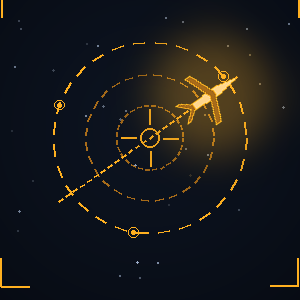
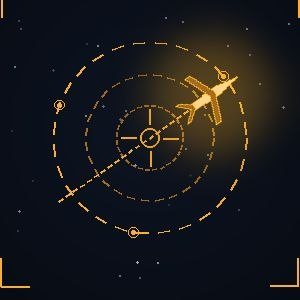
feat: replace all store artwork with new airplane imagery
- App icons (Assets/*) regenerated from new 300px icon master
- Box art 1080/2160 from dedicated 1080px and 1280px masters
- Posters 720/1440 from dedicated 9:16 portrait artwork
- Store tiles 71/150/300 from dedicated icon variants
- make_assets.py supports per-family masters (icon/box/poster/tile)

diff --git a/scripts/make_assets.py b/scripts/make_assets.py
@@ -2,15 +2,23 @@
 make_assets.py
 ==============
 Generates and repairs PNG assets required by Package.appxmanifest for the
-HoloLens 1 UWP app, using a master artwork image as the source.
+HoloLens 1 UWP app, using dedicated master artwork images as sources.
 
-The master image (`scripts/icon_master.png`) is the single source of truth
-for the app icon artwork. Every asset (44px through 1240px) is derived from
-it with LANCZOS resampling:
+Each asset family has its own master (single source of truth):
 
-- Square targets: direct resize of the master.
-- Wide targets (Wide310x150 / SplashScreen): center crop of the master to
-  the target aspect ratio (2.07:1) so the subject stays framed, then resize.
+- ``scripts/icon_master.png`` — square app-icon artwork (300x300). Every
+  square app icon (44px through 300px) and the wide/splash targets are
+  derived from it with LANCZOS resampling:
+  - Square targets: direct resize of the master.
+  - Wide targets (Wide310x150 / SplashScreen): center crop of the master to
+    the target aspect ratio (2.07:1) so the subject stays framed, then resize.
+- ``scripts/box_art_master_1080.jpg`` — square Microsoft Store box art
+  (1080x1080); the 2160x2160 box is upscaled from ``box_art_master_1280.jpg``.
+- ``scripts/poster_master_720.jpg`` / ``poster_master_853.jpg`` — portrait
+  9:16 poster artwork (720x1080 / 853x1280); the 1440x2160 poster is a
+  center-crop-to-9:16 then upscale of the 853 master.
+- ``scripts/icon_master_150.jpg`` / ``icon_master_100.jpg`` — smaller icon
+  artwork variants for the 150px / 71px Store tiles.
 
 Usage:
     python scripts/make_assets.py
@@ -19,7 +27,7 @@ Behavior:
 - Rewrites assets whose dimensions are wrong.
 - Generates both scale-200 names and common unscaled aliases.
 - Also regenerates the Microsoft Store listing images (StoreListing/) from
-  the same master.
+  the same masters.
 """
 
 import os
@@ -32,6 +40,12 @@ ASSETS_DIR = os.path.join(REPO_DIR, "Assets")
 STORE_DIR = os.path.join(REPO_DIR, "StoreListing")
 
 MASTER_PATH = os.path.join(SCRIPT_DIR, "icon_master.png")
+BOX_MASTER_1080 = os.path.join(SCRIPT_DIR, "box_art_master_1080.jpg")
+BOX_MASTER_1280 = os.path.join(SCRIPT_DIR, "box_art_master_1280.jpg")
+POSTER_MASTER_720 = os.path.join(SCRIPT_DIR, "poster_master_720.jpg")
+POSTER_MASTER_853 = os.path.join(SCRIPT_DIR, "poster_master_853.jpg")
+ICON_MASTER_150 = os.path.join(SCRIPT_DIR, "icon_master_150.jpg")
+ICON_MASTER_100 = os.path.join(SCRIPT_DIR, "icon_master_100.jpg")
 
 # ---------------------------------------------------------------------------
 # Helpers
@@ -50,6 +64,7 @@ def crop_wide(master, target_w, target_h):
     crop_h = min(crop_h, mh)
     # Bias the crop window toward the subject band (vertical center).
     top = max(0, (mh - crop_h) // 2)
+    # Shift slightly up if the crop would cut the top of a tall subject.
     top = max(0, top - int(mh * 0.02))
     box = (0, top, mw, top + crop_h)
     return master.crop(box)
@@ -76,61 +91,101 @@ WIDE_TARGETS = [
     ("SplashScreen.scale-200.png", 1240, 600),
 ]
 
-# Microsoft Store listing images (square boxes/tiles + 9:16 posters).
-STORE_TARGETS = [
+# Microsoft Store listing images — square boxes from the box-art masters.
+BOX_TARGETS = [
     ("1x1_Box_1080x1080.png", 1080, 1080),
     ("1x1_Box_2160x2160.png", 2160, 2160),
-    ("1x1_Tile_71x71.png", 71, 71),
-    ("1x1_Tile_150x150.png", 150, 150),
-    ("1x1_Tile_300x300.png", 300, 300),
+]
+
+# Microsoft Store listing images — 9:16 posters from the poster masters.
+POSTER_TARGETS = [
     ("9x16_Poster_720x1080.png", 720, 1080),
     ("9x16_Poster_1440x2160.png", 1440, 2160),
 ]
 
+# Microsoft Store listing images — small square tiles from the icon masters.
+TILE_TARGETS = [
+    ("1x1_Tile_71x71.png", 71, 71),
+    ("1x1_Tile_150x150.png", 150, 150),
+    ("1x1_Tile_300x300.png", 300, 300),
+]
+
 
 def main():
-    if not os.path.exists(MASTER_PATH):
-        raise FileNotFoundError(
-            f"Master artwork not found: {MASTER_PATH}\n"
-            "Place the app icon artwork at scripts/icon_master.png and re-run."
-        )
+    required = {
+        "MASTER_PATH": MASTER_PATH,
+        "BOX_MASTER_1080": BOX_MASTER_1080,
+        "BOX_MASTER_1280": BOX_MASTER_1280,
+        "POSTER_MASTER_720": POSTER_MASTER_720,
+        "POSTER_MASTER_853": POSTER_MASTER_853,
+    }
+    for name, path in required.items():
+        if not os.path.exists(path):
+            raise FileNotFoundError(f"Master artwork not found: {path} ({name})")
 
     master = Image.open(MASTER_PATH).convert("RGB")
-    print(f"Master artwork: {MASTER_PATH} ({master.size[0]}x{master.size[1]})")
+    box_1080 = Image.open(BOX_MASTER_1080).convert("RGB")
+    box_1280 = Image.open(BOX_MASTER_1280).convert("RGB")
+    poster_720 = Image.open(POSTER_MASTER_720).convert("RGB")
+    poster_853 = Image.open(POSTER_MASTER_853).convert("RGB")
+    icon_150 = Image.open(ICON_MASTER_150).convert("RGB") if os.path.exists(ICON_MASTER_150) else master
+    icon_100 = Image.open(ICON_MASTER_100).convert("RGB") if os.path.exists(ICON_MASTER_100) else master
+
+    print(f"App-icon master:      {MASTER_PATH} ({master.size[0]}x{master.size[1]})")
+    print(f"Box art master 1080:  {BOX_MASTER_1080} ({box_1080.size[0]}x{box_1080.size[1]})")
+    print(f"Box art master 1280:  {BOX_MASTER_1280} ({box_1280.size[0]}x{box_1280.size[1]})")
+    print(f"Poster master 720:    {POSTER_MASTER_720} ({poster_720.size[0]}x{poster_720.size[1]})")
+    print(f"Poster master 853:    {POSTER_MASTER_853} ({poster_853.size[0]}x{poster_853.size[1]})")
     print(f"Writing assets to: {ASSETS_DIR} and {STORE_DIR}\n")
 
     os.makedirs(ASSETS_DIR, exist_ok=True)
     os.makedirs(STORE_DIR, exist_ok=True)
 
-    # Square assets: direct resize.
+    # Square app icons: direct resize of the icon master.
     for filename, tw, th in SQUARE_TARGETS:
         out = downsample(master, (tw, th))
         out.save(os.path.join(ASSETS_DIR, filename))
         print(f"  Assets/{filename}  ({tw}x{th})")
 
-    # Wide assets: aspect-crop then resize.
+    # Wide app assets: aspect-crop the icon master, then resize.
     for filename, tw, th in WIDE_TARGETS:
         cropped = crop_wide(master, tw, th)
         out = downsample(cropped, (tw, th))
         out.save(os.path.join(ASSETS_DIR, filename))
         print(f"  Assets/{filename}  ({tw}x{th}, crop {cropped.size[0]}x{cropped.size[1]})")
 
-    # Store listing: reuse the same square/wide rendering.
-    for filename, tw, th in STORE_TARGETS:
-        if tw == th:
-            out = downsample(master, (tw, th))
-        else:
-            # 9:16 poster — portrait, crop the master vertically.
-            target_ar = tw / th  # 0.667
-            mw, mh = master.size
-            crop_w = int(round(mh * target_ar))
-            crop_w = min(crop_w, mw)
-            left = (mw - crop_w) // 2
-            box = (left, 0, left + crop_w, mh)
-            cropped = master.crop(box)
-            out = downsample(cropped, (tw, th))
+    # Store listing — box art from the box masters.
+    for filename, tw, th in BOX_TARGETS:
+        src = box_1080 if tw <= 1080 else box_1280
+        out = downsample(src, (tw, th))
         out.save(os.path.join(STORE_DIR, filename))
-        print(f"  StoreListing/{filename}  ({tw}x{th})")
+        print(f"  StoreListing/{filename}  ({tw}x{th}, from {src.size[0]}x{src.size[1]})")
+
+    # Store listing — portrait 9:16 posters (center-crop to 9:16, then resize).
+    for filename, tw, th in POSTER_TARGETS:
+        src = poster_720 if tw <= 720 else poster_853
+        sw, sh = src.size
+        target_ar = tw / th  # 0.667
+        crop_w = int(round(sh * target_ar))
+        crop_w = min(crop_w, sw)
+        left = (sw - crop_w) // 2
+        box = (left, 0, left + crop_w, sh)
+        cropped = src.crop(box)
+        out = downsample(cropped, (tw, th))
+        out.save(os.path.join(STORE_DIR, filename))
+        print(f"  StoreListing/{filename}  ({tw}x{th}, crop {cropped.size[0]}x{cropped.size[1]})")
+
+    # Store listing — small square tiles from the matching icon masters.
+    for filename, tw, th in TILE_TARGETS:
+        if tw == 150:
+            src = icon_150
+        elif tw <= 100:
+            src = icon_100
+        else:
+            src = master
+        out = downsample(src, (tw, th))
+        out.save(os.path.join(STORE_DIR, filename))
+        print(f"  StoreListing/{filename}  ({tw}x{th}, from {src.size[0]}x{src.size[1]})")
 
     print("\nDone.")
 
